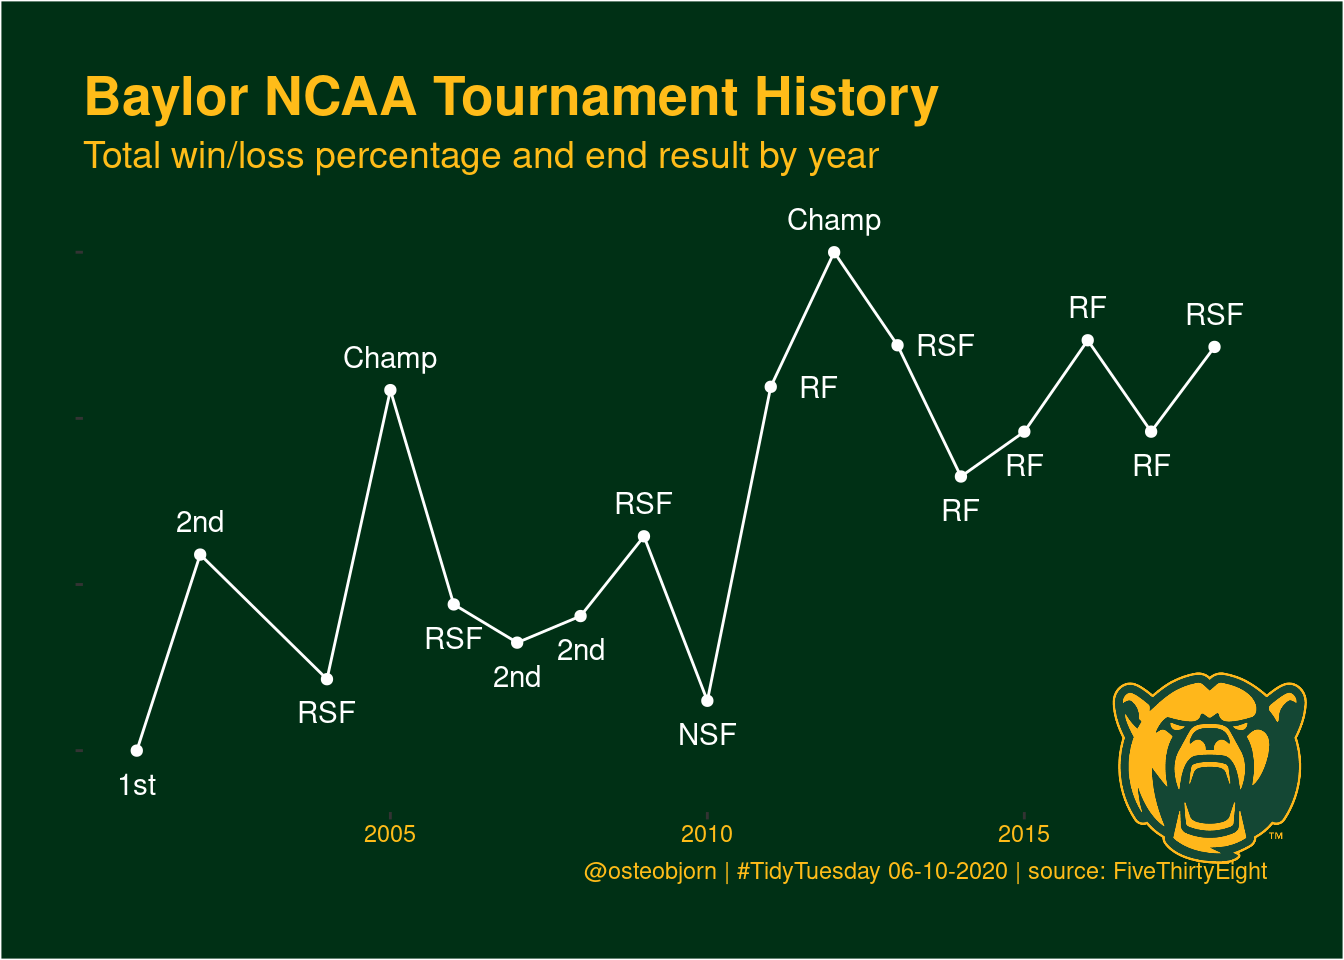
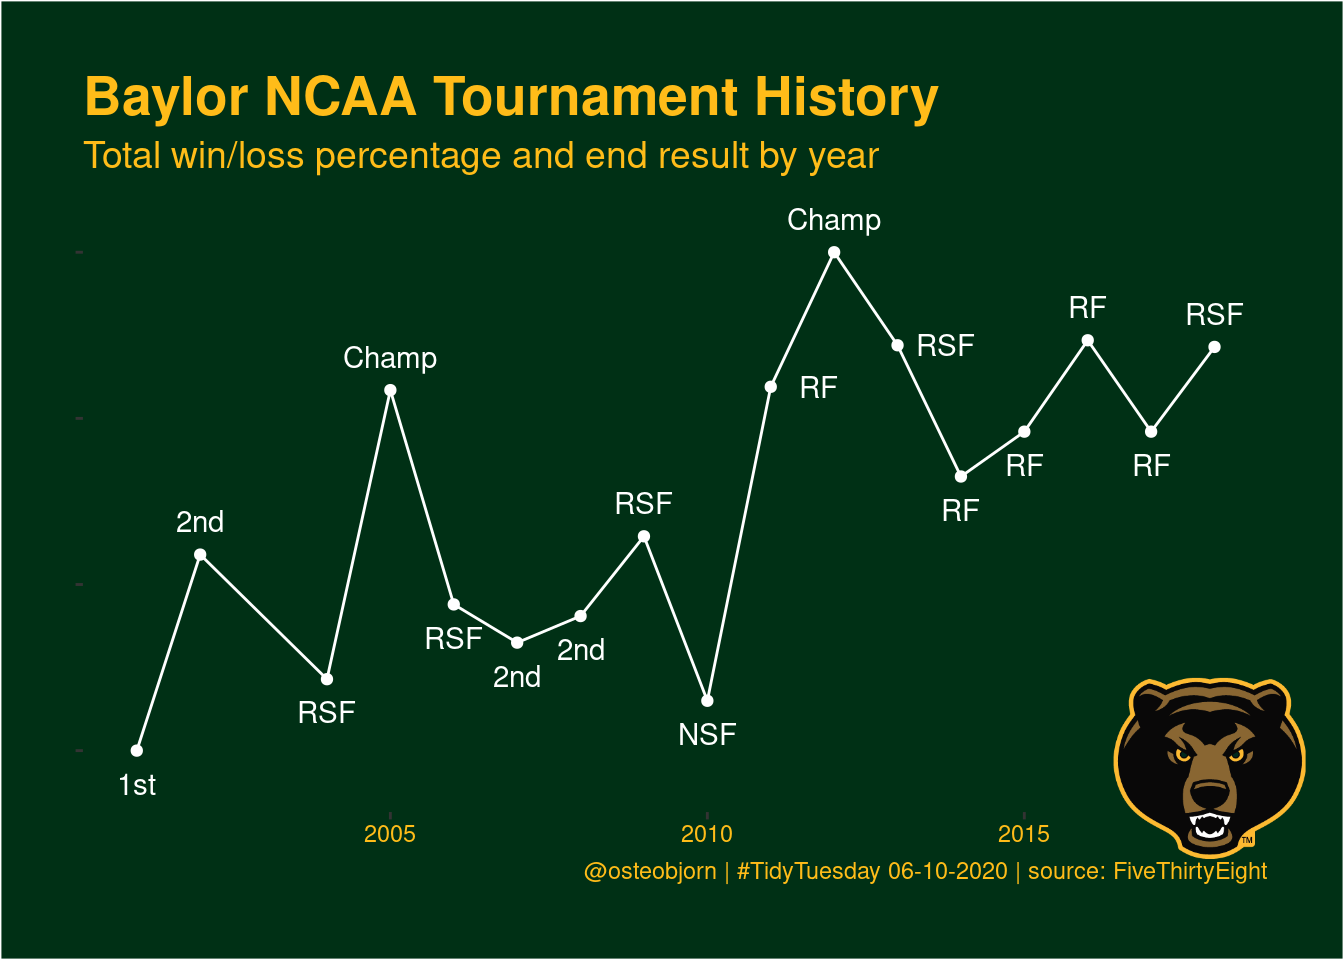
update tidy tuesday tutorial

Changed region(s): [[0.8125, 0.6875, 0.9688, 0.9062]]

diff --git a/content/post/tidytuesday/index.html b/content/post/tidytuesday/index.html
@@ -41,7 +41,6 @@ draft: false
 <ul>
 <li>tidyverse</li>
 <li>magick</li>
-<li>here</li>
 <li>cowplot</li>
 <li>tidytuesdayR (optional)</li>
 </ul>
@@ -49,7 +48,6 @@ draft: false
 install.packages(&quot;tidyverse&quot;)
 install.packages(&quot;cowplot&quot;)
 install.packages(&quot;magick&quot;)
-install.packages(&quot;here&quot;)
 install.packages(&quot;tidytuesdayR&quot;) # if necessary</code></pre>
 </div>
 <div id="step-1-loading-required-packages-and-downloading-the-data" class="section level2">
@@ -209,8 +207,7 @@ tournament &lt;- data$tournament # store the data frame in a new variable</code>
 <p>Feel free to play around with the colours, text size, font, etc.</p>
 <p>It still feels like something is missing… the main reason I chose Baylor was the cool logo (a legitimate reason for liking a team, right?). So, finally, we can place the logo on the plot. Admittedly, I was going for a watermark but reached the limit of my abilities (and time I could devote to this…), so if anyone knows how to do this, please let me know.</p>
 <p>Upload the image;</p>
-<pre class="r"><code>img &lt;- here::here(&quot;img&quot;, &quot;logo.png&quot;) %&gt;% # upload the Baylor logo
-  image_read()</code></pre>
+<pre class="r"><code>img &lt;- image_read(path = &quot;https://www.prepsportswear.com/media/images/college_logos/300x300/2626586_mktg_logo.png&quot;)  # upload the baylor logo</code></pre>
 <p>store the plot in a variable;</p>
 <pre class="r"><code>p &lt;- ggplot(baylor, aes(x = year, y = full_percent)) +
   geom_path(col = &quot;white&quot;) + 
